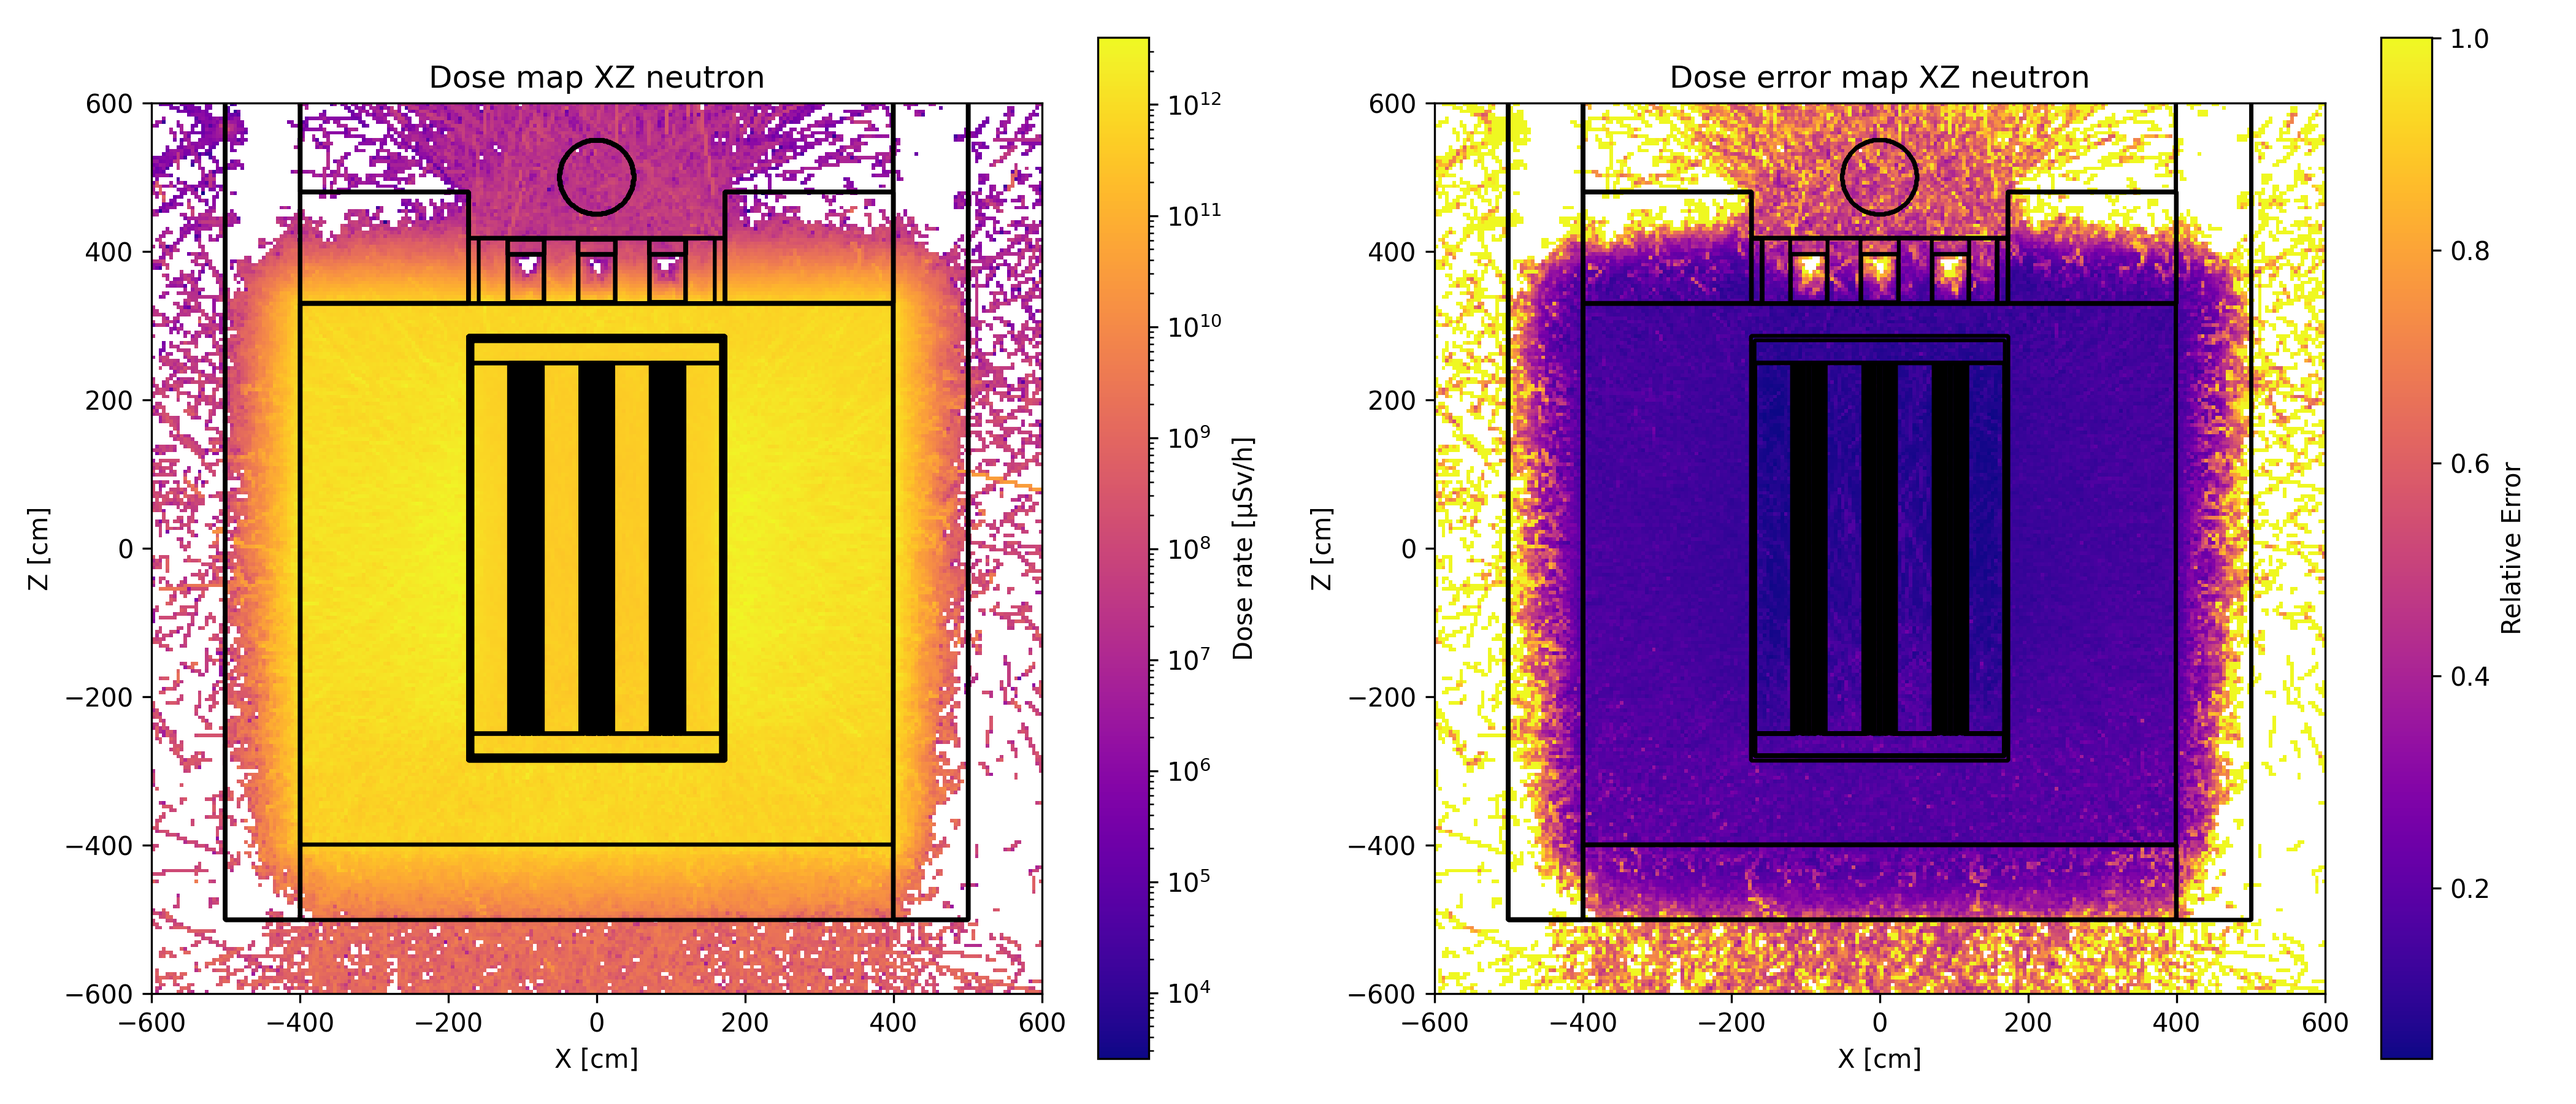
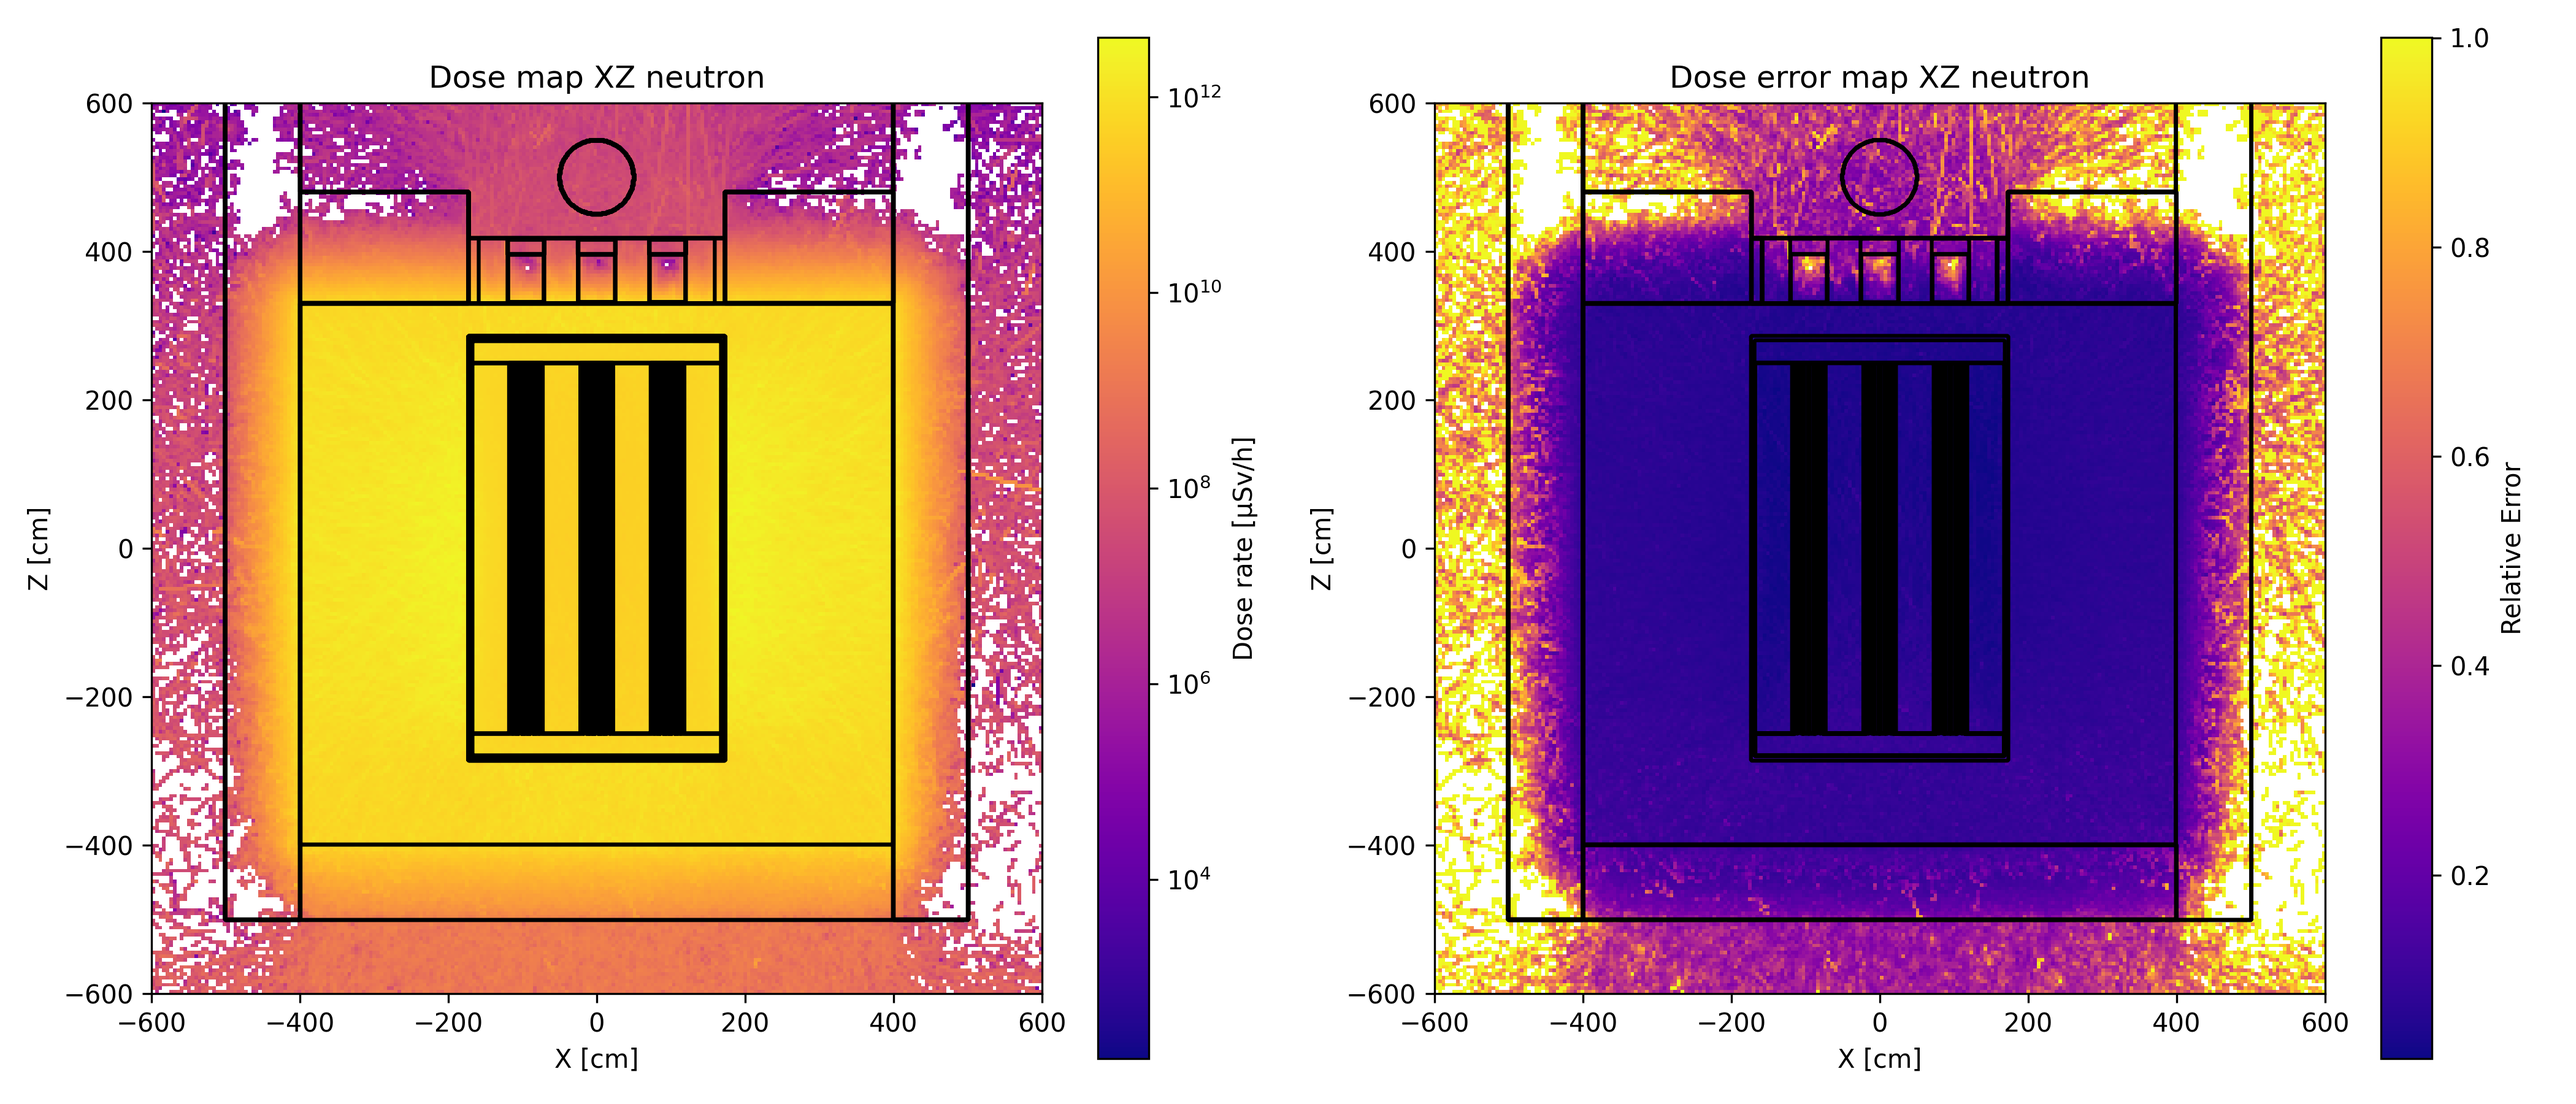
feat:add_ww

diff --git a/src/studies/reactor_study/class_model/secondary_source/top_shielding/02_65_20cm/02_wwg/ww.py b/src/studies/reactor_study/class_model/secondary_source/top_shielding/02_65_20cm/02_wwg/ww.py
@@ -1,0 +1,63 @@
+import openmc
+import openmc.lib 
+import os 
+import json
+import matplotlib.pyplot as plt
+from matplotlib.colors import LogNorm
+from pathlib import Path
+import sys 
+from PIL import Image
+import numpy as np
+from copy import deepcopy
+
+CWD = Path(__file__).parent.resolve() 
+project_root = Path(__file__).resolve().parents[8]  
+sys.path.append(str(project_root))
+
+from parameters.parameters_paths import PATH_TO_CROSS_SECTIONS, IMAGE_PATH
+from parameters.parameters_materials import *
+from src.utils.pre_processing.pre_processing import *
+from src.utils.post_preocessing.post_processing import *
+from src.models.model_complete_reactor_class import *
+from src.utils.weight_window.weight_window import *
+
+my_reactor = Reactor_model(materials=material_dict, 
+                           total_height_active_part=500.0, 
+                           light_water_pool=False, 
+                           slab_thickness=100,
+                           concrete_wall_thickness=100,
+                           calculation_sphere_coordinates=(0, 0, 500), 
+                           calculation_sphere_radius=50.0,
+                           thickness_lead_top_shielding=20.0, 
+                           thickness_b4c_top_shielding=65.0)
+model = my_reactor.model
+model.export_to_xml()
+
+plot_geometry(materials = openmc.Materials(list(my_reactor.material.values())), 
+              plane="xy", origin=(0,0,0), saving_figure=False, dpi=500, height=1700, width=1700,
+              pixels=(700, 700))
+
+plot_geometry(materials = openmc.Materials(list(my_reactor.material.values())), 
+              plane="xz", origin=(0,0,0), saving_figure=False, dpi=500, height=1700, width=1700,
+              pixels=(700, 700))
+
+plot_geometry(materials = openmc.Materials(list(my_reactor.material.values())), 
+              plane="xz", origin=(0,0,0), saving_figure=False, dpi=500, height=1700, width=1700,
+              pixels=(700, 700), color_by="cell")
+
+os.environ["OPENMC_CROSS_SECTIONS"] = PATH_TO_CROSS_SECTIONS
+
+factor = 4
+new_material_dict = deepcopy(material_dict)
+
+for material_name, material in new_material_dict.items():
+    new_material_dict[material_name] = reducing_density(material, factor=factor)
+
+new_material_dict["FUEL_UO2_MATERIAL"].remove_element("U")
+
+my_reactor.material = new_material_dict
+model = my_reactor.model
+model.export_to_xml()
+
+# Example usage:
+create_weight_window(model, num_iterations=15, batches_number=50, particles_per_batch=10000, mesh_dimension=(100, 100, 100))

diff --git a/src/studies/reactor_study/class_model/secondary_source/top_shielding/03_75_25cm/02_wwg/ww.py b/src/studies/reactor_study/class_model/secondary_source/top_shielding/03_75_25cm/02_wwg/ww.py
@@ -1,0 +1,52 @@
+import openmc
+import openmc.lib 
+import os 
+import json
+import matplotlib.pyplot as plt
+from matplotlib.colors import LogNorm
+from pathlib import Path
+import sys 
+from PIL import Image
+import numpy as np
+from copy import deepcopy
+
+CWD = Path(__file__).parent.resolve() 
+project_root = Path(__file__).resolve().parents[8]  
+sys.path.append(str(project_root))
+
+from parameters.parameters_paths import PATH_TO_CROSS_SECTIONS, IMAGE_PATH
+from parameters.parameters_materials import *
+from src.utils.pre_processing.pre_processing import *
+from src.utils.post_preocessing.post_processing import *
+from src.models.model_complete_reactor_class import *
+from src.utils.weight_window.weight_window import *
+
+my_reactor = Reactor_model(materials=material_dict, 
+                           total_height_active_part=500.0, 
+                           light_water_pool=False, 
+                           slab_thickness=100,
+                           concrete_wall_thickness=100,
+                           calculation_sphere_coordinates=(0, 0, 510), 
+                           calculation_sphere_radius=50.0,
+                           thickness_lead_top_shielding=25.0, 
+                           thickness_b4c_top_shielding=75.0)
+
+model = my_reactor.model
+model.export_to_xml()
+
+os.environ["OPENMC_CROSS_SECTIONS"] = PATH_TO_CROSS_SECTIONS
+
+factor = 4
+new_material_dict = deepcopy(material_dict)
+
+for material_name, material in new_material_dict.items():
+    new_material_dict[material_name] = reducing_density(material, factor=factor)
+
+new_material_dict["FUEL_UO2_MATERIAL"].remove_element("U")
+
+my_reactor.material = new_material_dict
+model = my_reactor.model
+model.export_to_xml()
+
+# Example usage:
+create_weight_window(model, num_iterations=15, batches_number=50, particles_per_batch=100000, mesh_dimension=(150, 150, 150))

diff --git a/src/models/model_complete_reactor_class.py b/src/models/model_complete_reactor_class.py
@@ -295,7 +295,7 @@ class Reactor_model:
                 region=hex_prism_plug_assembly,
             )
 
-            concrete_slab_top_region = -openmc.model.RectangularParallelepiped(xmin=-width_cavity, xmax=width_cavity, ymin=-width_cavity, ymax=width_cavity, zmin=self.altimetry_plug_starting -1, zmax=self.altimetry_plug_starting -1 + thickness_concrete_slab_top) &  +openmc.model.HexagonalPrism(edge_length=200, orientation="y", origin=(0.0, 0.0))
+            concrete_slab_top_region = -openmc.model.RectangularParallelepiped(xmin=-width_cavity, xmax=width_cavity, ymin=-width_cavity, ymax=width_cavity, zmin=self.altimetry_plug_starting -1 -20, zmax=self.altimetry_plug_starting -1 + thickness_concrete_slab_top) &  +openmc.model.HexagonalPrism(edge_length=200, orientation="y", origin=(0.0, 0.0))
             concrete_slab_top_cell = openmc.Cell(
                 name="concrete_slab_top_cell",
                 fill=self.material["HEAVY_CONCRETE_HEMATITE_MATERIAL"],

diff --git a/src/utils/weight_window/weight_window.py b/src/utils/weight_window/weight_window.py
@@ -544,13 +544,13 @@ def create_weight_window(
             plot_mesh_tally_and_weight_window(
                 f'statepoint_itteration_{i}.h5',
                 f'weight_windows{i}.h5',
-                f'plot_{i}',
+                f'ww_{i}',
                 particle_type='neutron'
             )
             plot_mesh_tally_and_weight_window(
                 f'statepoint_itteration_{i}.h5',
                 f'weight_windows{i}.h5',
-                f'plot_{i}',
+                f'ww_{i}',
                 particle_type='photon'
             )
             if rm_intermediate_files :

diff --git a/src/studies/reactor_study/class_model/secondary_source/top_shielding/02_65_20cm/01_calcul/post.py b/src/studies/reactor_study/class_model/secondary_source/top_shielding/02_65_20cm/01_calcul/post.py
@@ -20,7 +20,7 @@ os.environ["OPENMC_CROSS_SECTIONS"] = PATH_TO_CROSS_SECTIONS
 
 material_dict["FUEL_UO2_MATERIAL"].remove_element("U")
 
-statepoint = openmc.StatePoint(f"statepoint.0190.h5")
+statepoint = openmc.StatePoint(f"statepoint.0680.h5")
 
 results_path = "simulation_results.json"
 with open(results_path, "r") as f:

diff --git a/src/studies/reactor_study/class_model/secondary_source/top_shielding/02_65_20cm/03_itteration_numbe_analysis/itter_var.py b/src/studies/reactor_study/class_model/secondary_source/top_shielding/02_65_20cm/03_itteration_numbe_analysis/itter_var.py
@@ -62,7 +62,6 @@ if __name__ == "__main__":
     fom_neutron_list = []
     fom_photon_list = []
 
-
     for itteration in range(1, 9):
 
         settings = openmc.Settings()
